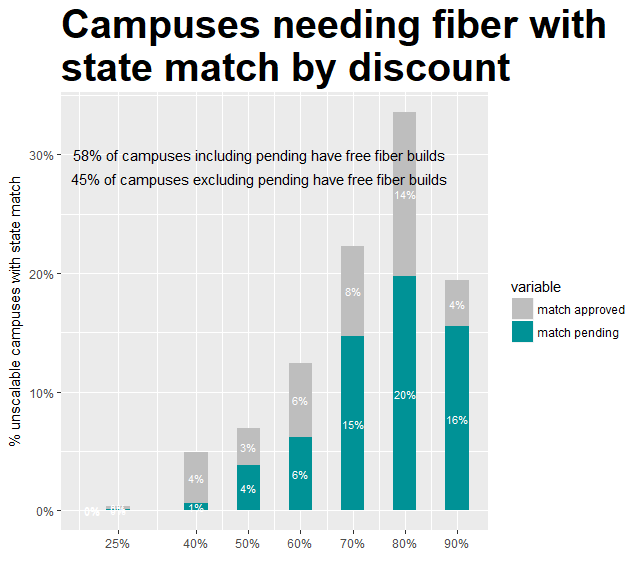
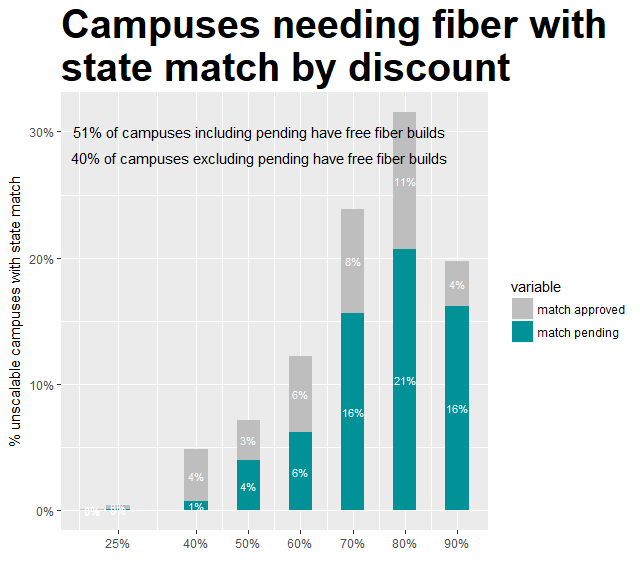
changes after jeremys qa

diff --git a/Projects_SotS_2017/fiber/unscalable_match_dr/query.py b/Projects_SotS_2017/fiber/unscalable_match_dr/query.py
@@ -8,8 +8,7 @@ select *
 from public.fy2017_districts_deluxe_matr dd
 where dd.include_in_universe_of_districts
 and dd.district_type = 'Traditional'
-and exclude_from_ia_analysis = false
-and fiber_target_status in ('Target', 'Potential Target')
+and fiber_target_status = 'Target'
 and postal_cd in ('MT', 'ID', 'MN', 'KS', 'IL', 'MD', 'MA', 'MO', 'NH', 
                   'AZ', 'VA', 'NC', 'TX', 'CA', 'NM', 'NY', 'OK', 'FL', 'ME')
 ),
